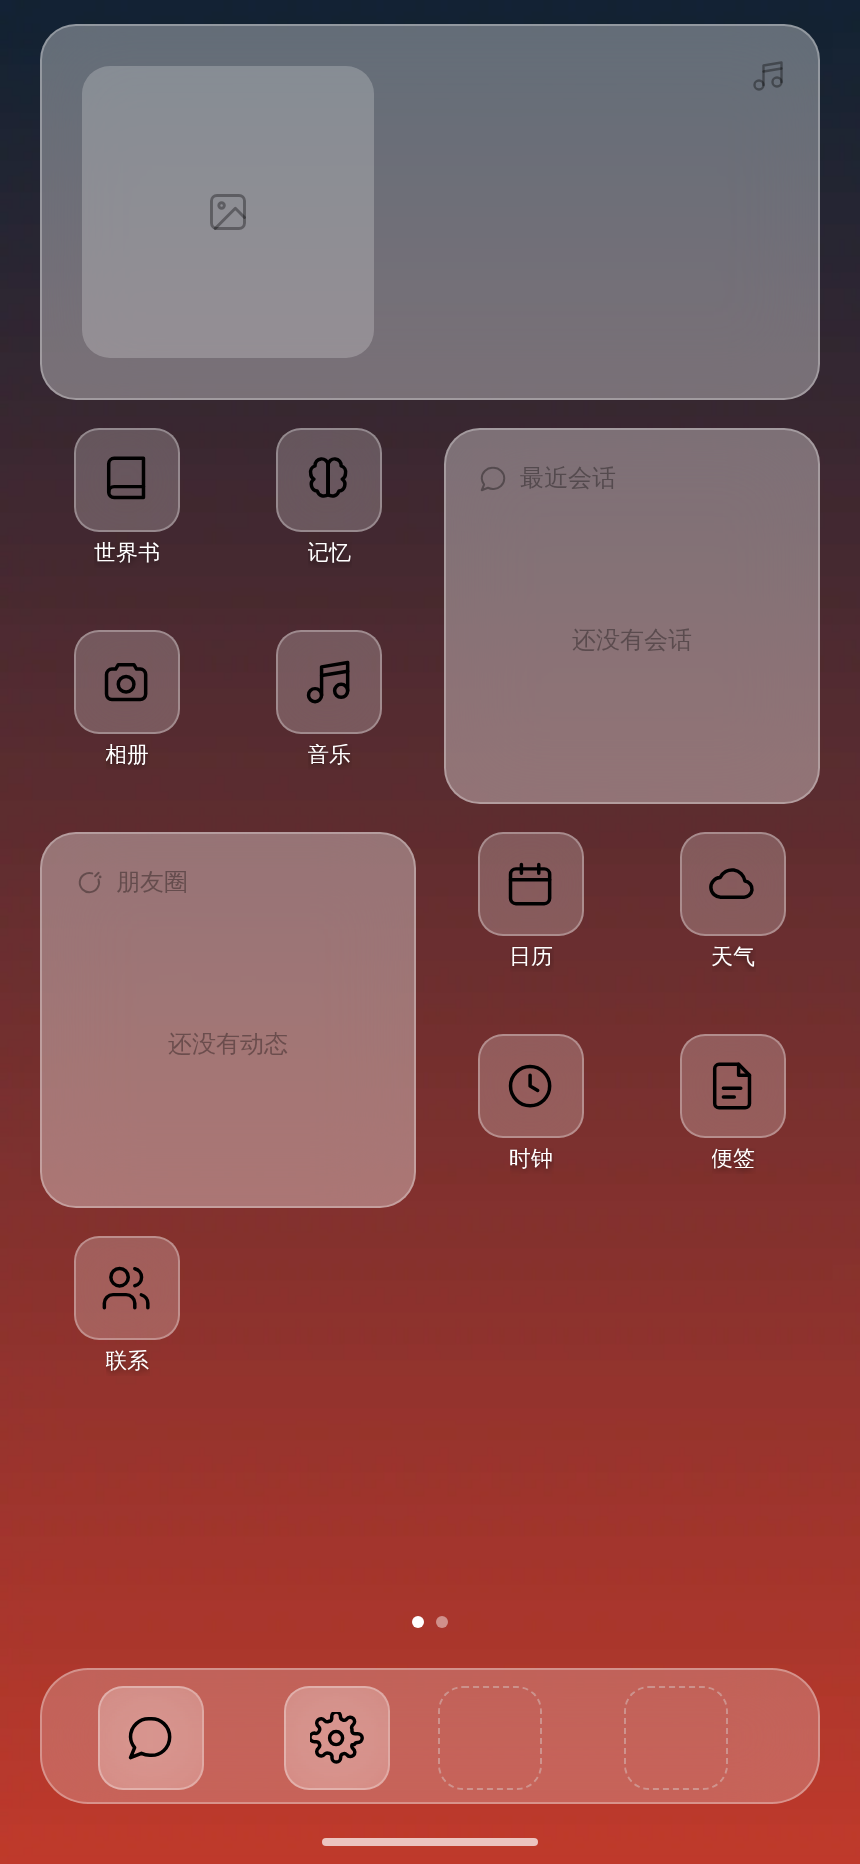
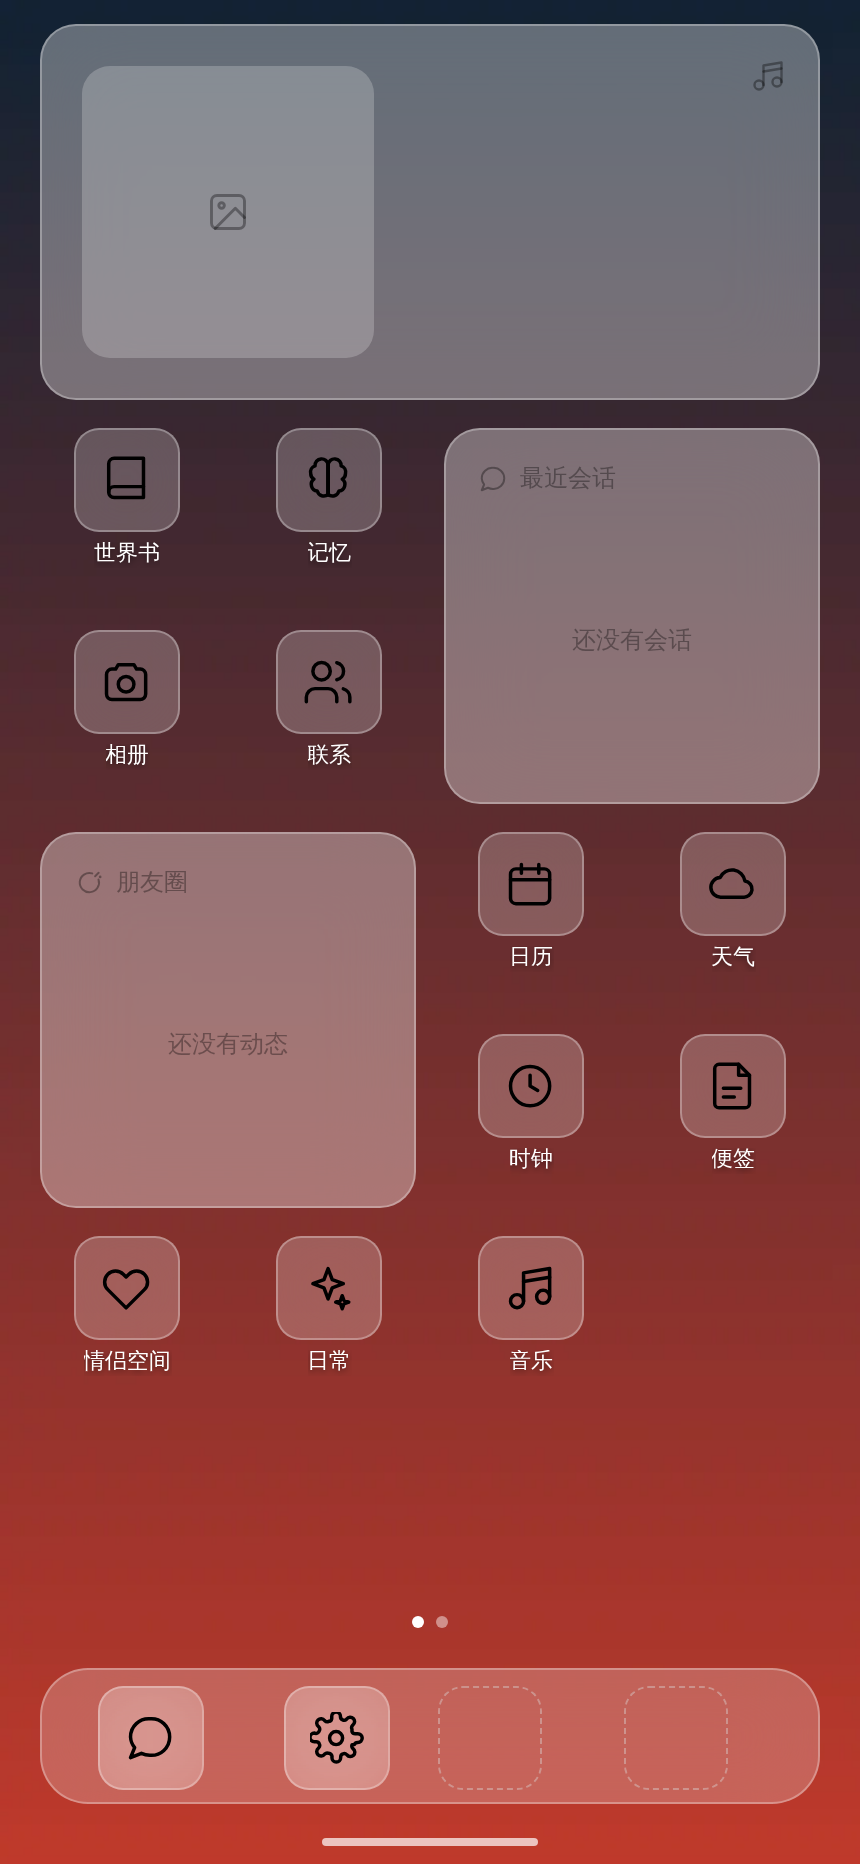
底栏把安全区算进高度里，图标不再顶出去
box-sizing 是 border-box，而 .tabbar 写的是 height: var(--tabbar-h) 加
padding-bottom: var(--safe-bottom)。加到主屏幕当 PWA 用时安全区是 34px，
54 减 34，能放东西的只剩 20px —— 图标和文字一起顶出底栏上沿，文字还压进
Home Indicator 那一条。桌面上安全区是 0，所以一直没看出来。

dock 那边（shell.css）从一开始就是 height: calc(... + var(--safe-bottom))，
底栏这里漏了。改成同一种写法。

顺着这一条把底部安全区整个筛了一遍，另外两处：

- 没有页签栏的页面，滚动区一直铺到屏幕底，滚到头时最后一行压在 Home
  Indicator 下面。给 .page > .page-body:last-child 补上安全区的内边距 ——
  有页签栏的不加，那边已经让开了
- 锁屏的「上滑解锁」在最底下，.lock 没有让开安全区，正好压在指示条上
- 音乐 app 的歌单页底下没有页签栏，那一条播放器自己让开（mu-bar-safe）

筛法：把 --safe-bottom 顶到 34px，逐页滚到底，找 bottom 越过安全区上沿的
可点元素。十个页面现在都是干净的。

Claude-Session: https://claude.ai/code/session_01M3XFM6pK559Bocs5BHASj4

diff --git a/styles/ui.css b/styles/ui.css
@@ -3,6 +3,9 @@
 /* ---- Page ---- */
 .page { height: 100%; display: flex; flex-direction: column; background: var(--bg); }
 .page-body { flex: 1; min-height: 0; }
+/* 底下没有页签栏时，滚动区一直铺到屏幕底，最后一行会压在 Home Indicator 下面。
+   有页签栏的那些不加 —— 页签栏自己已经把安全区让出来了。 */
+.page > .page-body:last-child { padding-bottom: var(--safe-bottom); }
 
 .navbar {
   flex: none; height: var(--navbar-h);
@@ -17,8 +20,14 @@
 .nav-title { text-align: center; font-size: var(--fs-15); font-weight: var(--fw-semi); }
 
 /* ---- 应用内 TabBar ---- */
+/* 高度要把安全区**加上去**，不能让它从里面挖。
+   box-sizing 是 border-box（base.css），写成 height: var(--tabbar-h) 加
+   padding-bottom: 34px，能放东西的就只剩 20px —— 图标和字会顶出底栏上沿，
+   字还会压进 Home Indicator 那条。dock 那边（shell.css）一直是 calc 写法，
+   这里漏了。 */
 .tabbar {
-  flex: none; height: var(--tabbar-h);
+  flex: none;
+  height: calc(var(--tabbar-h) + var(--safe-bottom));
   padding-bottom: var(--safe-bottom);
   display: flex; background: var(--bg);
 }

diff --git a/src/apps/music/parts.js b/src/apps/music/parts.js
@@ -50,7 +50,8 @@ export function KeepButton({ track }) {
 }
 
 // 底部那条。没在放就不占位置。
-export function NowBar() {
+// safe：这一页底下没有页签栏，那条就得自己让开 Home Indicator。
+export function NowBar({ safe }) {
   const s = useStore(player.player);
   const cur = s.queue[s.index];
   if (!cur) return null;
@@ -62,7 +63,7 @@ export function NowBar() {
     player.seek(((e.clientX - box.left) / box.width) * s.duration);
   };
   return html`
-    <div class="mu-bar">
+    <div class=${`mu-bar${safe ? ' mu-bar-safe' : ''}`}>
       <div class="mu-bar-line" onClick=${jump}><i style=${`width:${pct}%`}></i></div>
       <div class="mu-bar-body">
         <${Cover} src=${cur.cover} name=${cur.title} size=${40}/>

diff --git a/index.html b/index.html
@@ -7,7 +7,7 @@
 <!-- 构建号。和 src/version.js 里的必须一致，由 scripts/check-build.mjs 拦着。
      HTML 比 js 子资源更容易被浏览器重新验证，所以拿它当「真实版本」，
      启动时和 version.js 一比就知道缓存里的 js 是不是旧的。见 src/main.js -->
-<meta name="build" content="2026-09-18.79">
+<meta name="build" content="2026-09-18.80">
 <meta name="theme-color" content="#F2F3F5" media="(prefers-color-scheme: light)">
 <meta name="theme-color" content="#0D0E10" media="(prefers-color-scheme: dark)">
 <meta name="mobile-web-app-capable" content="yes">

diff --git a/styles/app.css b/styles/app.css
@@ -1239,6 +1239,7 @@ button.search-bar { width: 100%; border: none; }
 /* 条子只有两像素，手指点不准。伪元素把上下各撑出一截当热区，不影响外观 */
 .mu-bar-line::after { content: ""; position: absolute; inset: -9px 0; }
 .mu-bar-line i { display: block; height: 100%; background: var(--accent); }
+.mu-bar-safe .mu-bar-body { padding-bottom: calc(var(--sp-2) + var(--safe-bottom)); }
 .mu-bar-body {
   display: flex; align-items: center; gap: var(--sp-3);
   padding: var(--sp-2) var(--sp-3);

diff --git a/styles/shell.css b/styles/shell.css
@@ -332,7 +332,9 @@
 
 /* ---- 锁屏 ---- */
 .lock {
-  height: 100%; display: flex; flex-direction: column; padding: var(--sp-6) var(--sp-4);
+  height: 100%; display: flex; flex-direction: column;
+  /* 「上滑解锁」那一行在最底下，不让开安全区就正好压在 Home Indicator 上 */
+  padding: var(--sp-6) var(--sp-4) calc(var(--sp-6) + var(--safe-bottom));
   background: linear-gradient(170deg, var(--surface-2), var(--bg));
 }
 .lock.has-wallpaper { background: none; }

diff --git a/src/version.js b/src/version.js
@@ -2,4 +2,4 @@
 // （scripts/check-build.mjs 会拦）。
 // 无构建方案没有文件指纹，手机上很容易还在跑缓存里的旧代码；
 // 有这一行就能一眼看出屏幕上的到底是哪一版。
-export const BUILD = '2026-09-18.79';
+export const BUILD = '2026-09-18.80';

diff --git a/src/apps/music/PlaylistPage.js b/src/apps/music/PlaylistPage.js
@@ -34,6 +34,6 @@ export function PlaylistPage({ id }) {
             right=${html`<${KeepButton} track=${t}/>`}/>`)}
       </div>
       </div>
-      <${NowBar}/>
+      <${NowBar} safe/>
     <//>`;
 }
